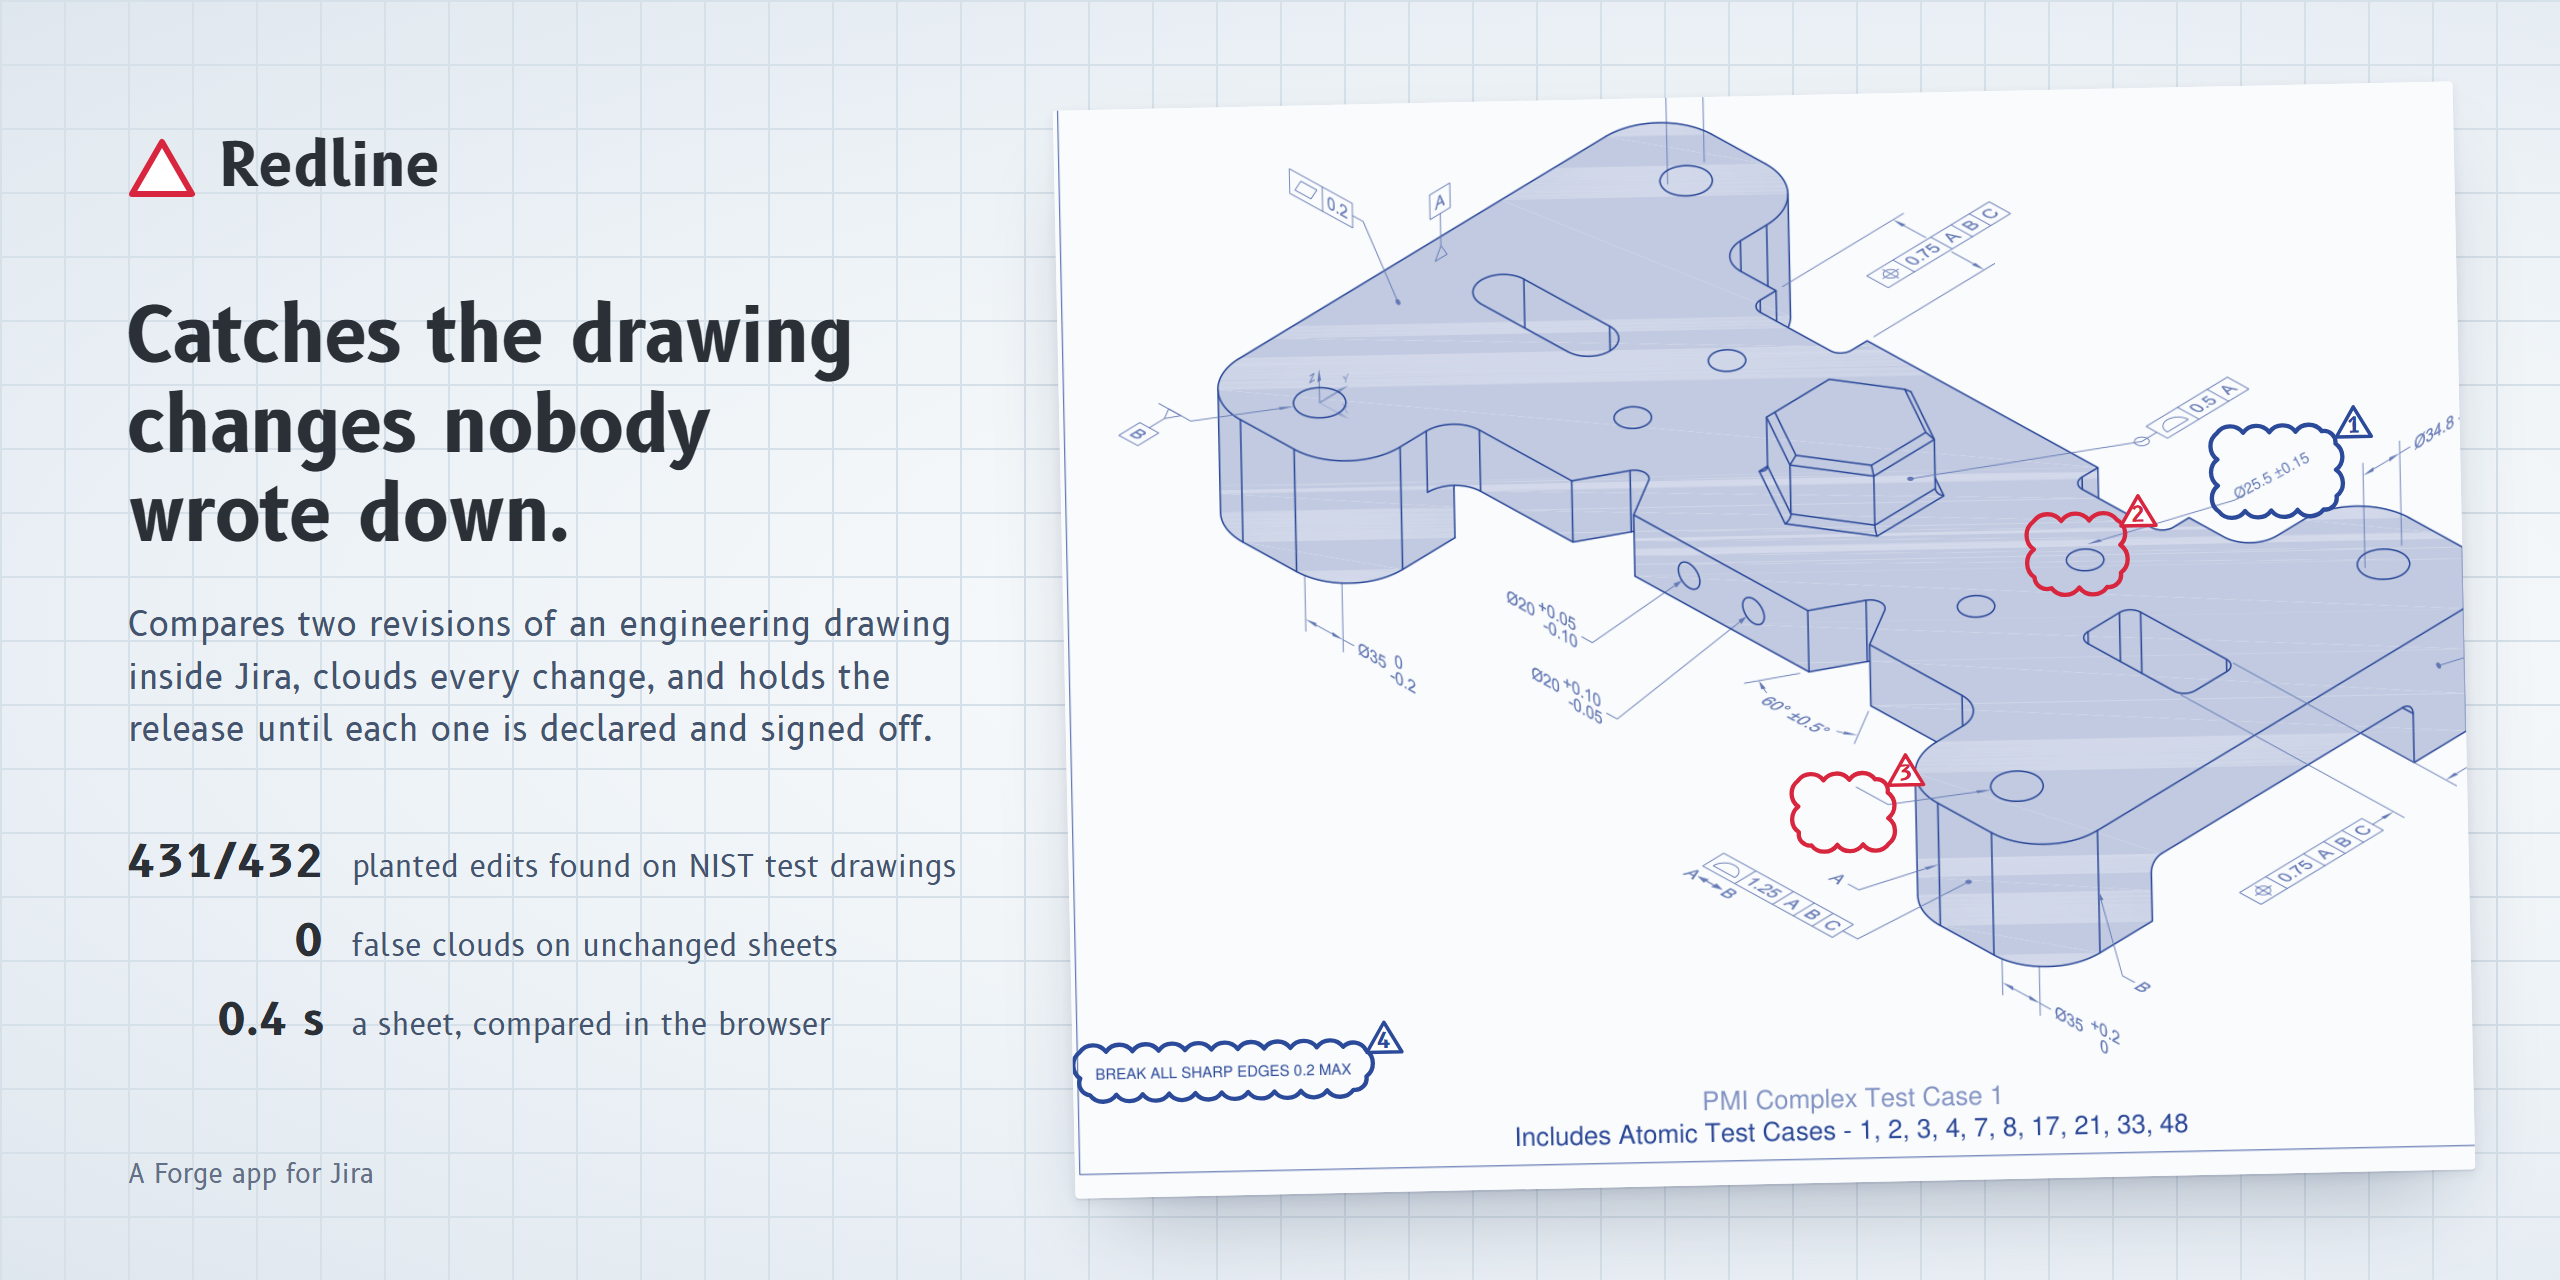
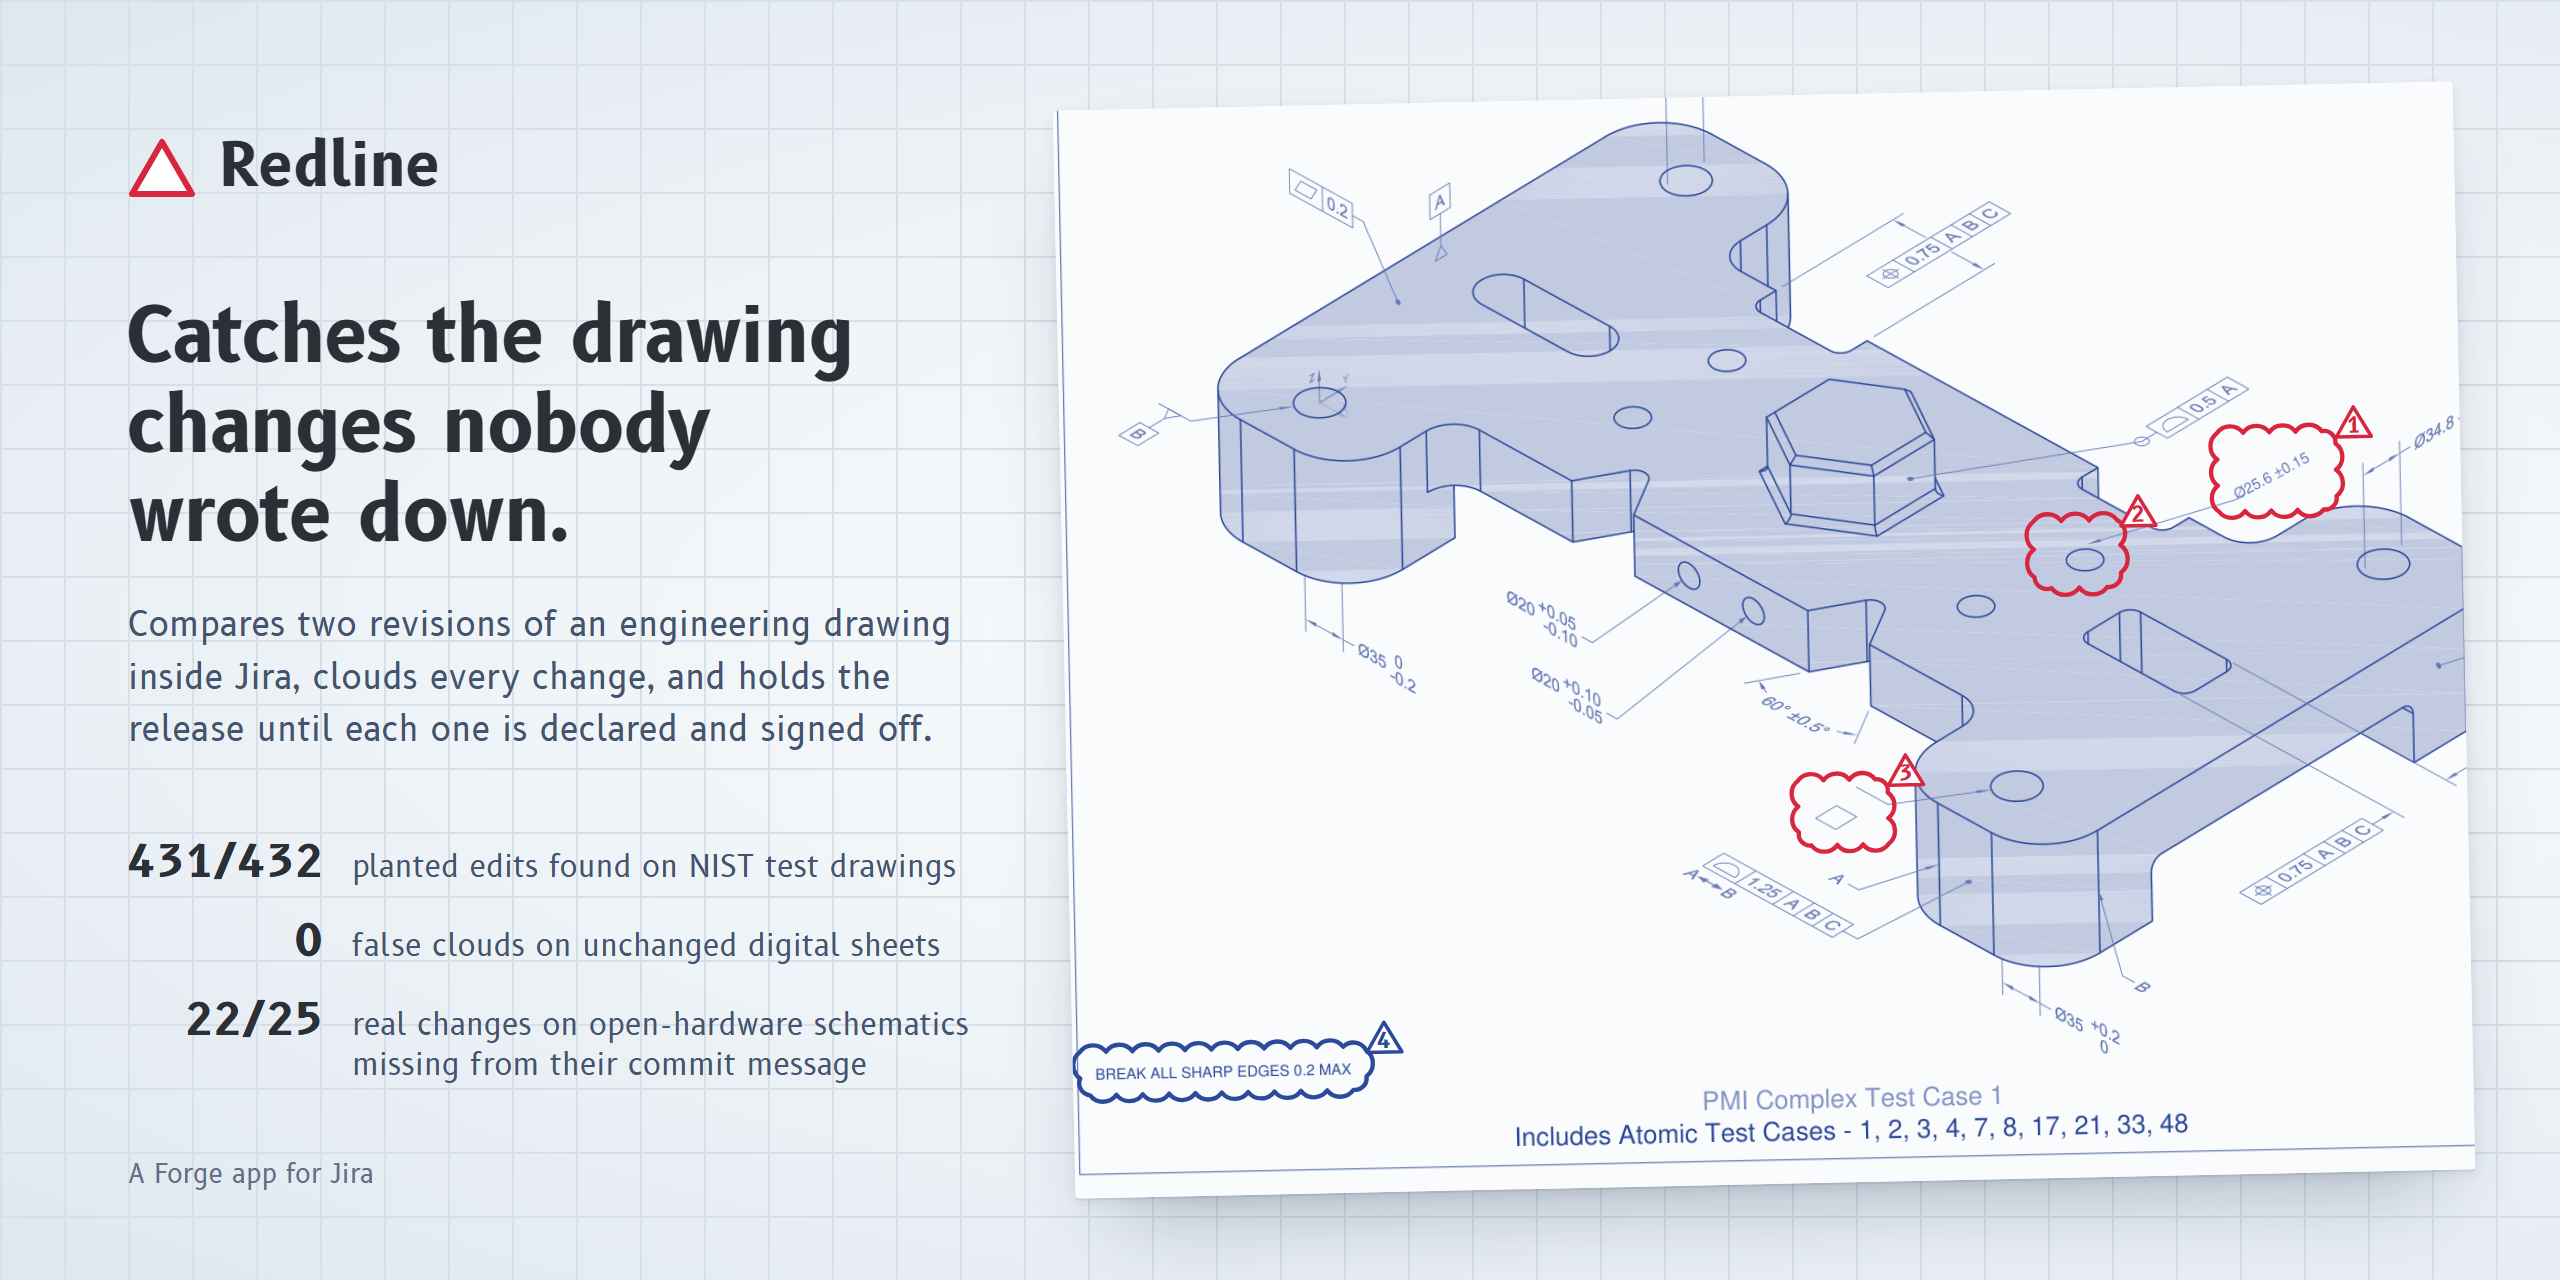
Cover: the real-world result, and change 1 shown as the value slip it is

diff --git a/docs/cover/cover.html b/docs/cover/cover.html
@@ -39,8 +39,8 @@ dd { margin: 0; font-size: 15px; color: #44546f; }
   <p class="lede">Compares two revisions of an engineering drawing inside Jira, clouds every change, and holds the release until each one is declared and signed off.</p>
   <dl>
     <dt>431/432</dt><dd>planted edits found on NIST test drawings</dd>
-    <dt>0</dt><dd>false clouds on unchanged sheets</dd>
-    <dt>0.4 s</dt><dd>a sheet, compared in the browser</dd>
+    <dt>0</dt><dd>false clouds on unchanged digital sheets</dd>
+    <dt>22/25</dt><dd>real changes on open-hardware schematics missing from their commit message</dd>
   </dl>
 </div>
 <div class="foot">A Forge app for Jira</div>
@@ -65,8 +65,8 @@ function cloudPath(x0, y0, x1, y1, pad, bump) {
 // clouds found by the shipped engine on BRKT-0142 rev C to rev D (docs/cover/clouds.mjs)
 const clouds = [{"x0":1210,"y0":553,"x1":1293,"y1":597},{"x0":1030,"y0":635,"x1":1082,"y1":668},{"x0":796,"y0":882,"x1":851,"y1":913},{"x0":93,"y0":1131,"x1":339,"y1":1141}];
 const ns = 'http://www.w3.org/2000/svg', s = document.getElementById('s');
-// 1 and 4 are declared in the sample's change notes (blue); 2 and 3 are the undeclared ones (red)
-const declared = new Set([0, 3]);
+// 4 is declared and matches its note (blue); 1 shows a value its note does not state, 2 and 3 are in no note (red)
+const declared = new Set([3]); // 1 is declared but its value (25.6) is not what note 1 says, so it stays red
 clouds.forEach((c, i) => {
   const w = document.createElementNS(ns, 'g'); if (declared.has(i)) w.setAttribute('class', 'decl'); s.appendChild(w);
   const p = document.createElementNS(ns, 'path'); p.setAttribute('d', cloudPath(c.x0, c.y0, c.x1, c.y1, 16, 13)); p.setAttribute('class', 'cloud'); w.appendChild(p);
